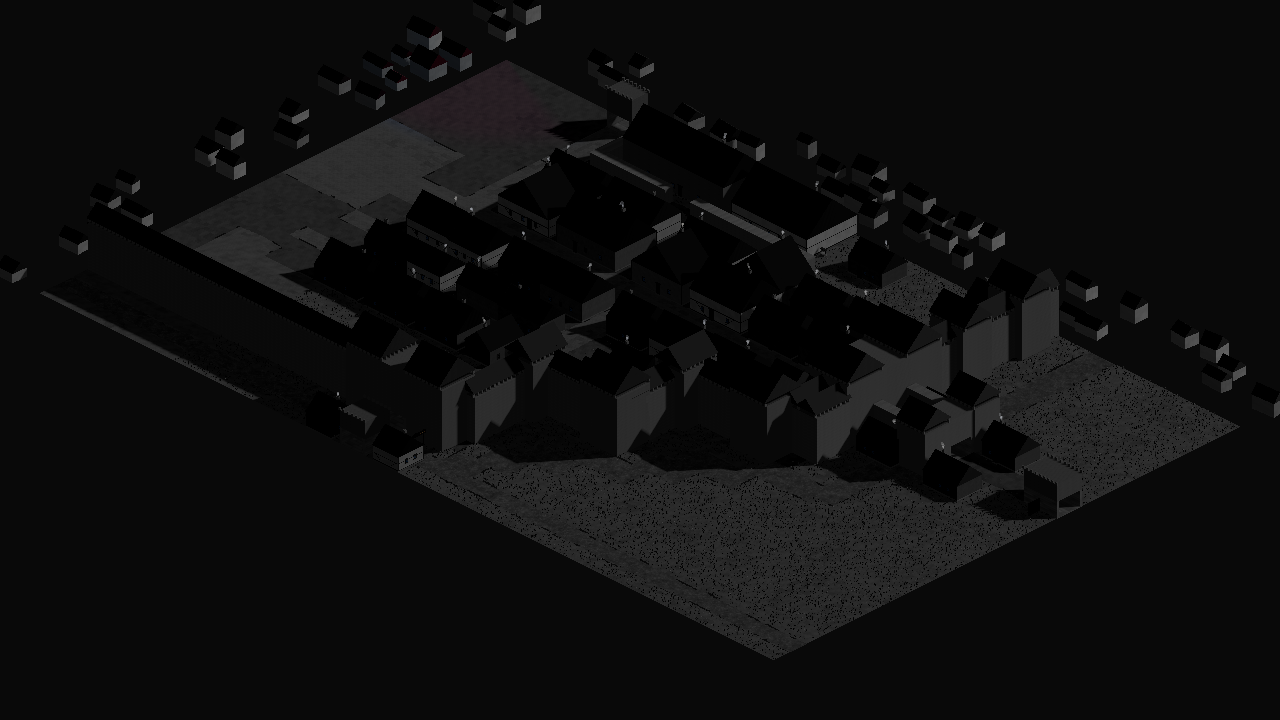
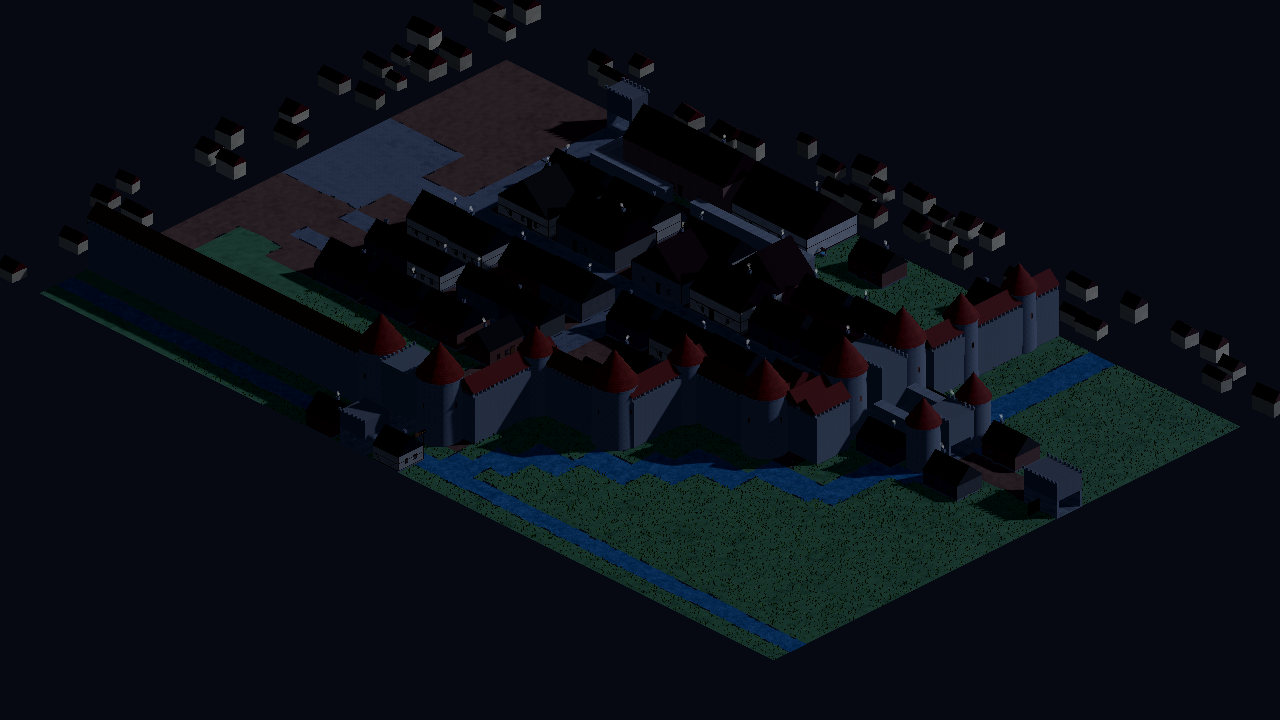
Restore round Tallinn wall towers in Lower Town 3D view
The doubled Eastern Quarters layout pushed every wall-tower footprint past
the mesh builder's small-footprint tower heuristic, so the town wall
rendered square prisms instead of the previous circular turrets. Add an
explicit boolean `tower` key to the rrmap/blueprint compiler allowlists
and mark all twelve Lower Town wall towers with it, forcing the round
limestone drum, conical red roof, and arrow-slit dressing while keeping
the footprint heuristic as the fallback for unflagged maps.

Changed region(s): [[0.2812, 0.4278, 0.7188, 0.9167], [0.5938, 0.3667, 0.875, 0.6417], [0.2812, 0.5806, 0.3125, 0.6111]]

diff --git a/docs/MAP_AUTHORING.md b/docs/MAP_AUTHORING.md
@@ -585,7 +585,7 @@ BOOL          = "true" | "false" ;
 
 `placement_row` and arbitrary prefab definitions are intentionally not exposed in v1. They remain typed GDScript capabilities because a safe compact grammar has not demonstrated a readability benefit for them.
 
-Typed style/override keys are closed to the compiler's current semantic fields: `enabled`, `terrain`, `rect`, `wall_height`, `wall_height_scale`, `wall_color`, `roof_color`, `door_side`, `ridge_axis`, `primitive`, `cell`, `facing`, `style_variant`, `visual_offset_px`, `destination_scene_id`, `destination_spawn_id`, `spawn_id`, `spawn_offset_px`, `highlight_area`, `view_landmark_id`, `kind`, `direction`, `top_px`, `door_material`, and `passage_axis`. Each key has one parser type; unknown keys are rejected before compilation.
+Typed style/override keys are closed to the compiler's current semantic fields: `enabled`, `terrain`, `rect`, `wall_height`, `wall_height_scale`, `wall_color`, `roof_color`, `door_side`, `ridge_axis`, `primitive`, `cell`, `facing`, `style_variant`, `visual_offset_px`, `destination_scene_id`, `destination_spawn_id`, `spawn_id`, `spawn_offset_px`, `highlight_area`, `view_landmark_id`, `kind`, `direction`, `top_px`, `door_material`, `passage_axis`, and `tower`. Each key has one parser type; unknown keys are rejected before compilation. The boolean `tower` key on a wall-kind building forces the round limestone tower dressing (drum, conical roof, arrow slits) regardless of footprint size; without it the small-footprint heuristic applies.
 
 ### AI authoring checklist
 